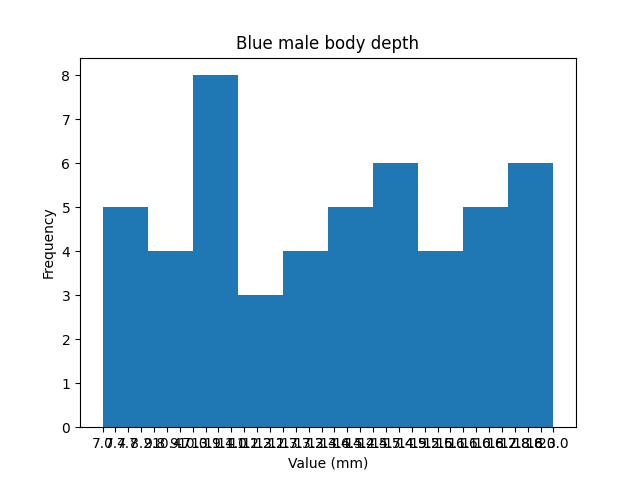
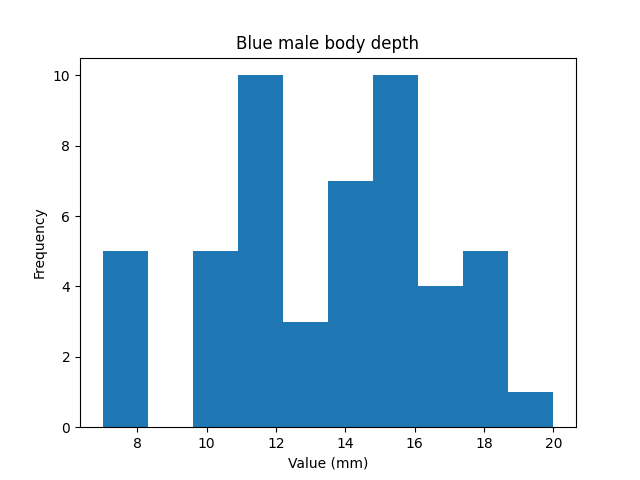
all plots

diff --git a/main.py b/main.py
@@ -5,19 +5,19 @@ def get_attribute(data_list, attribute_number):
     result = []
     for i in data_list:
         line = i.split()
-        result.append(line[attribute_number])
+        result.append(float(line[attribute_number]))
     return result
 
 
 def draw_histogram(data, name, suffix):
-    plt.hist(data, 10)
+    plt.clf()
+    plt.hist(data)
     plt.xlabel("Value (mm)")
     plt.ylabel("Frequency")
     result = suffix.replace(' ', '_')
     plt.title(name)
     result = 'plots/' + result + '.png'
     plt.savefig(result)
-    plt.clf()
     plt.close()
 
 
@@ -31,21 +31,21 @@ def generate(data_list, name):
         short_name = name + suffix[j]
         attribute_values = get_attribute(data_list, i)
         draw_histogram(attribute_values, long_name, short_name)
-        long_name = ""
-        short_name = ""
 
 
 
-
-def print_hi(name):
+def main():
     with open('crabs.dat', 'r') as f:
         message = f.read()
     f.close()
     lines = message.splitlines()
     generate(lines[1:51], "Blue male")
+    generate(lines[51:101], "Blue female")
+    generate(lines[101:151], "Orange male")
+    generate(lines[151:201], "Orange female")
 
 
 if __name__ == '__main__':
-    print_hi('PyCharm')
+    main()
 
 
